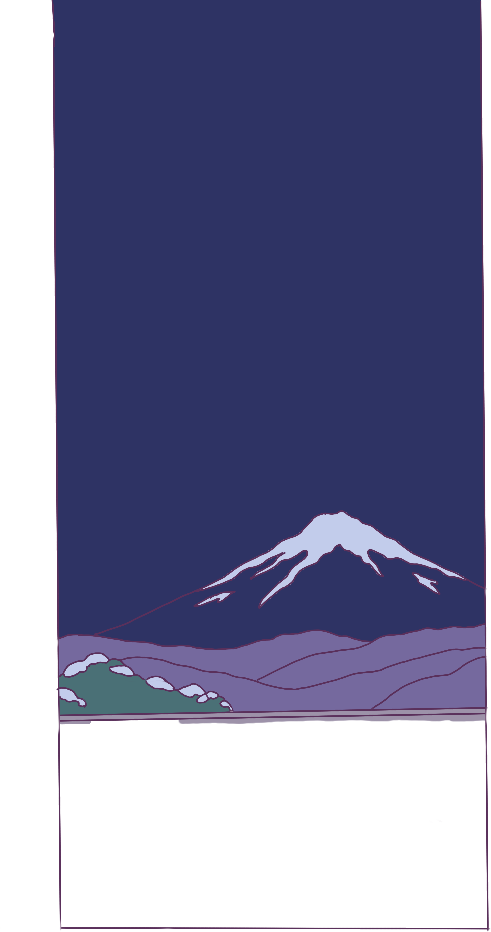
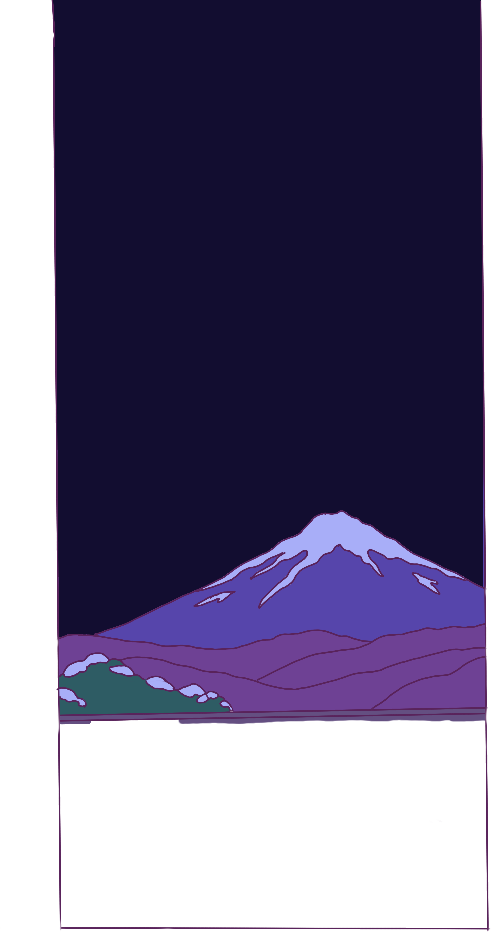
Deepen Japan night sky and fields, separate Fuji in violet

diff --git a/index.html b/index.html
@@ -982,11 +982,11 @@ html body #work-desktop .desktop-folder .folder-tile.work-browser-tile{
             </defs>
             <g clip-path="url(#japan-window)">
               <image class="japan-day" href="assets/room-redraw/japon-montagne.webp" x="1671" y="0" width="491" height="932"/>
-              <image class="japan-night" href="assets/room-redraw/japon-montagne-nuit.webp" x="1671" y="0" width="491" height="932"/>
+              <image class="japan-night" href="assets/room-redraw/japon-montagne-nuit.webp?v=2" x="1671" y="0" width="491" height="932"/>
               <rect class="snowfall" x="1738" y="-180" width="420" height="1113" fill="url(#japan-snow-far)" opacity=".8"/>
               <!-- Insert the train here so it passes behind the house and fields. -->
               <image class="japan-day" href="assets/room-redraw/japon-rizieres.webp" x="1727" y="679" width="435" height="253"/>
-              <image class="japan-night" href="assets/room-redraw/japon-rizieres-nuit.webp" x="1727" y="679" width="435" height="253"/>
+              <image class="japan-night" href="assets/room-redraw/japon-rizieres-nuit.webp?v=2" x="1727" y="679" width="435" height="253"/>
               <rect class="snowfall snowfall-near" x="1738" y="-180" width="420" height="1113" fill="url(#japan-snow-near)"/>
             </g>
           </svg>
